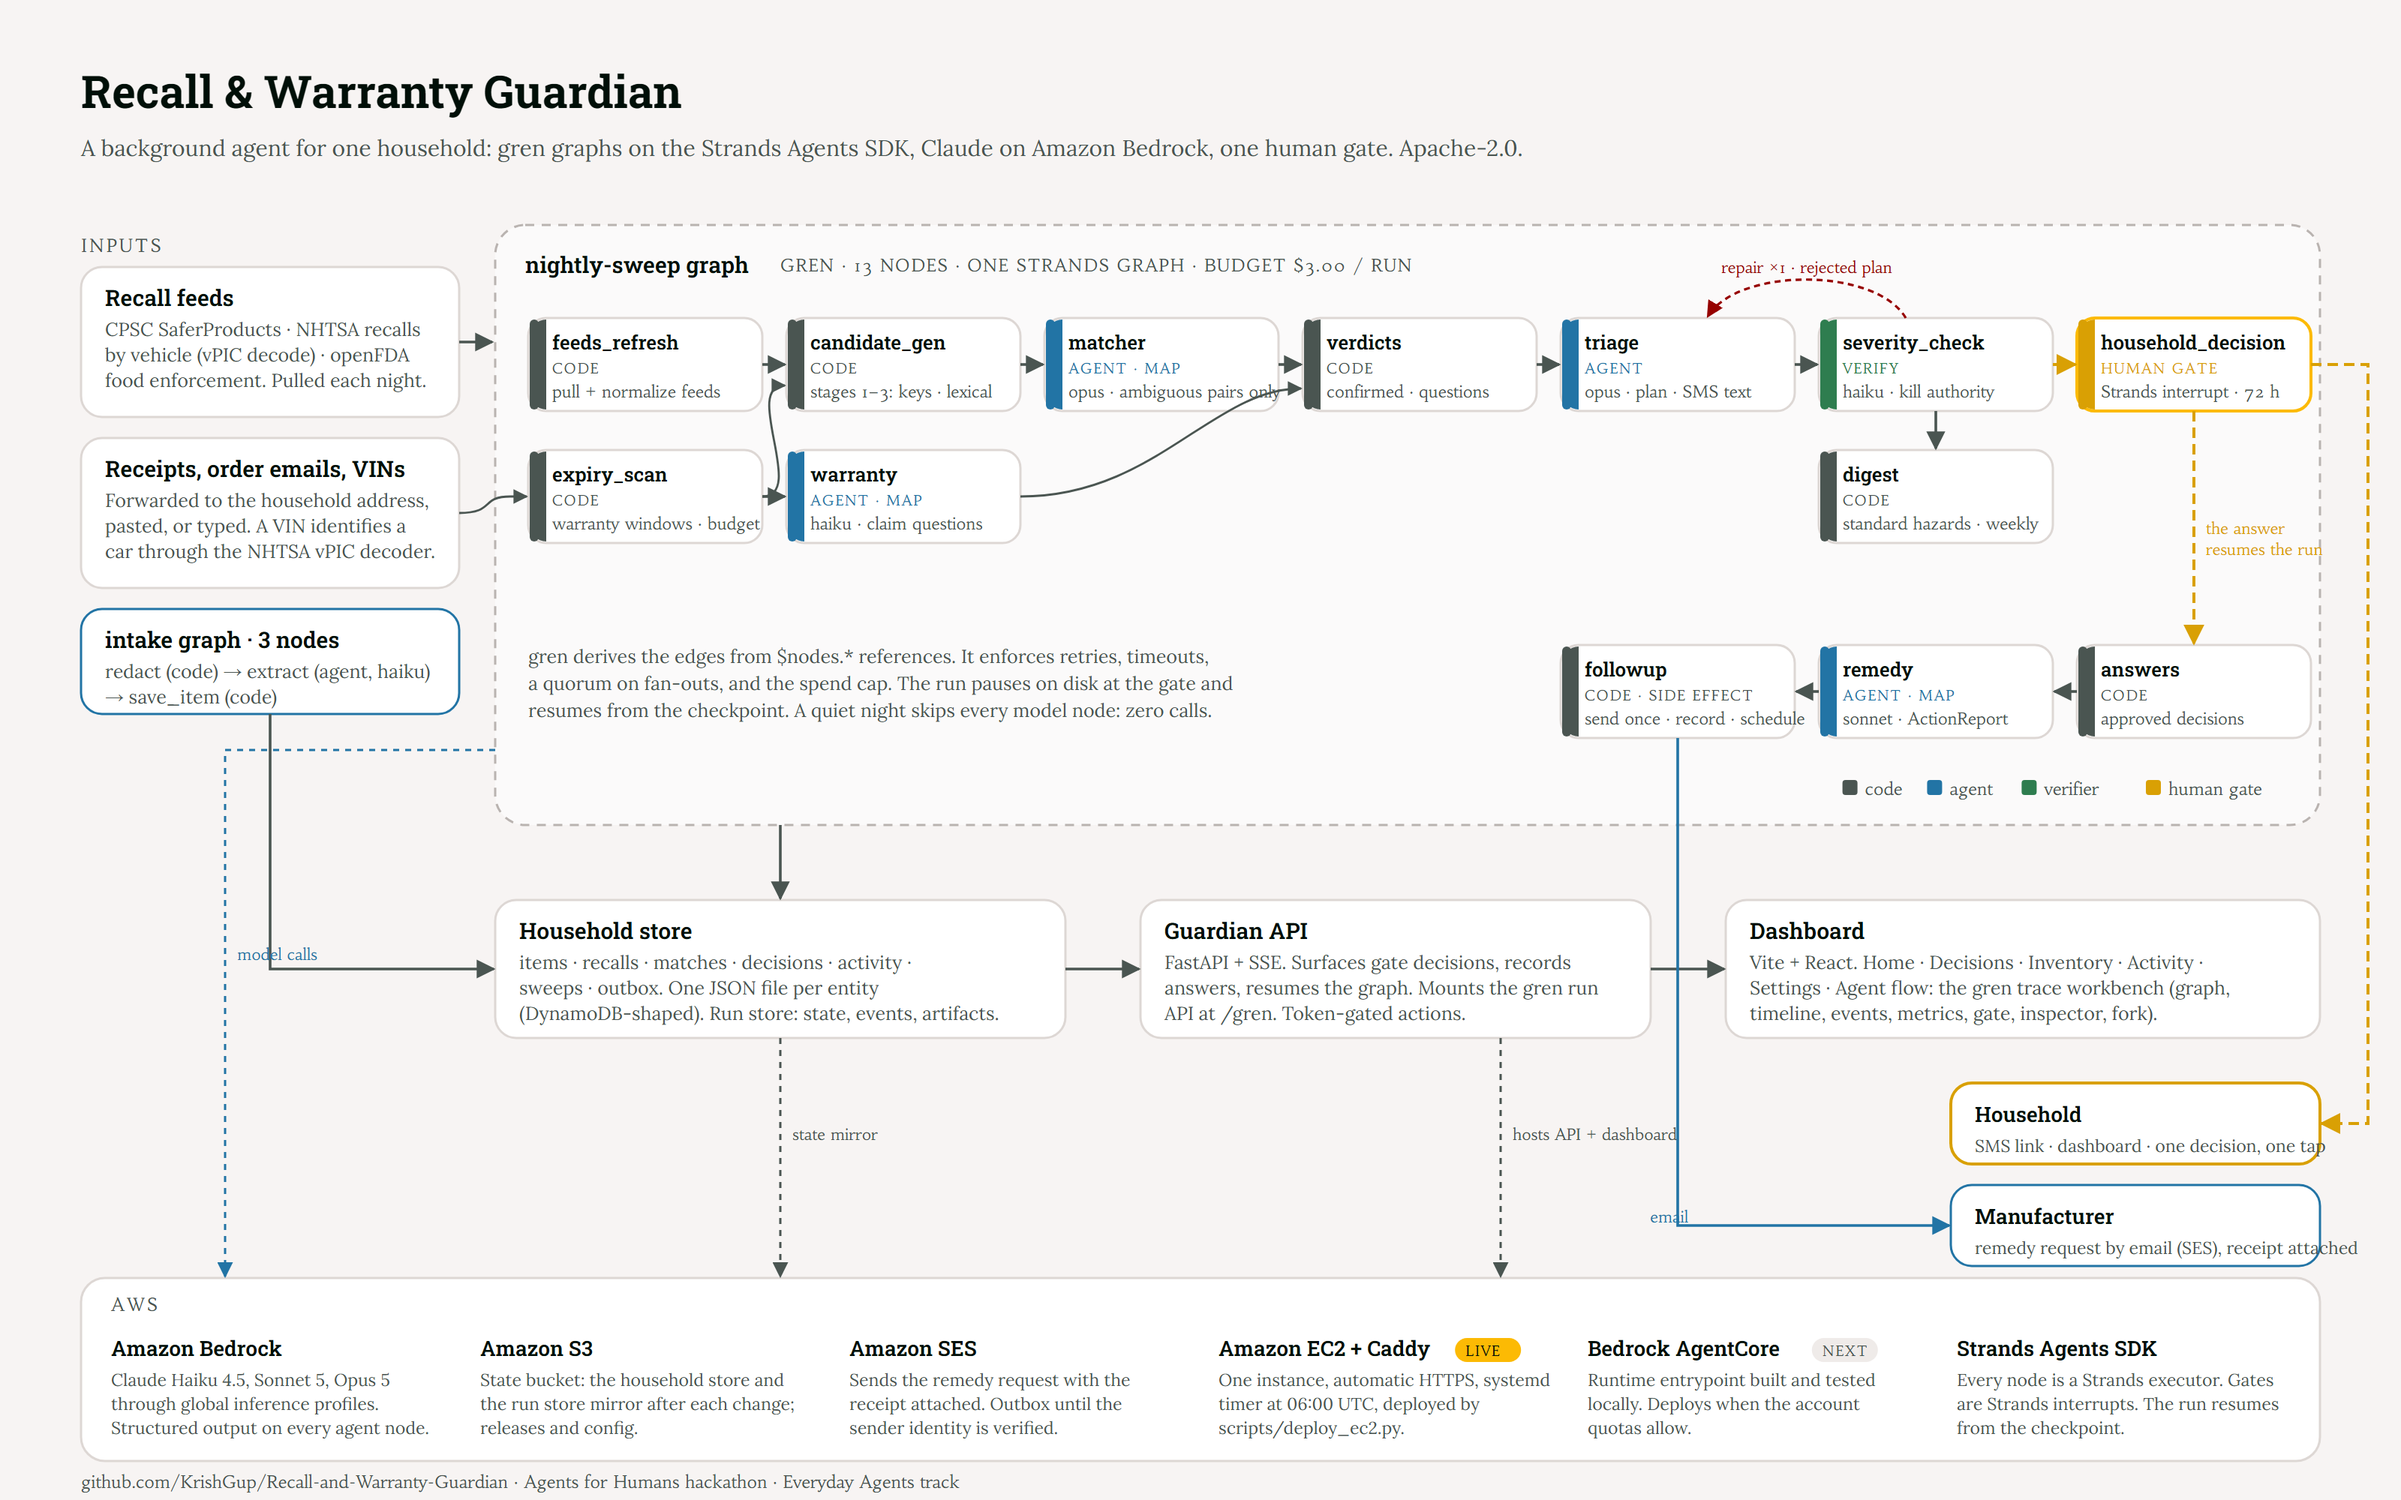
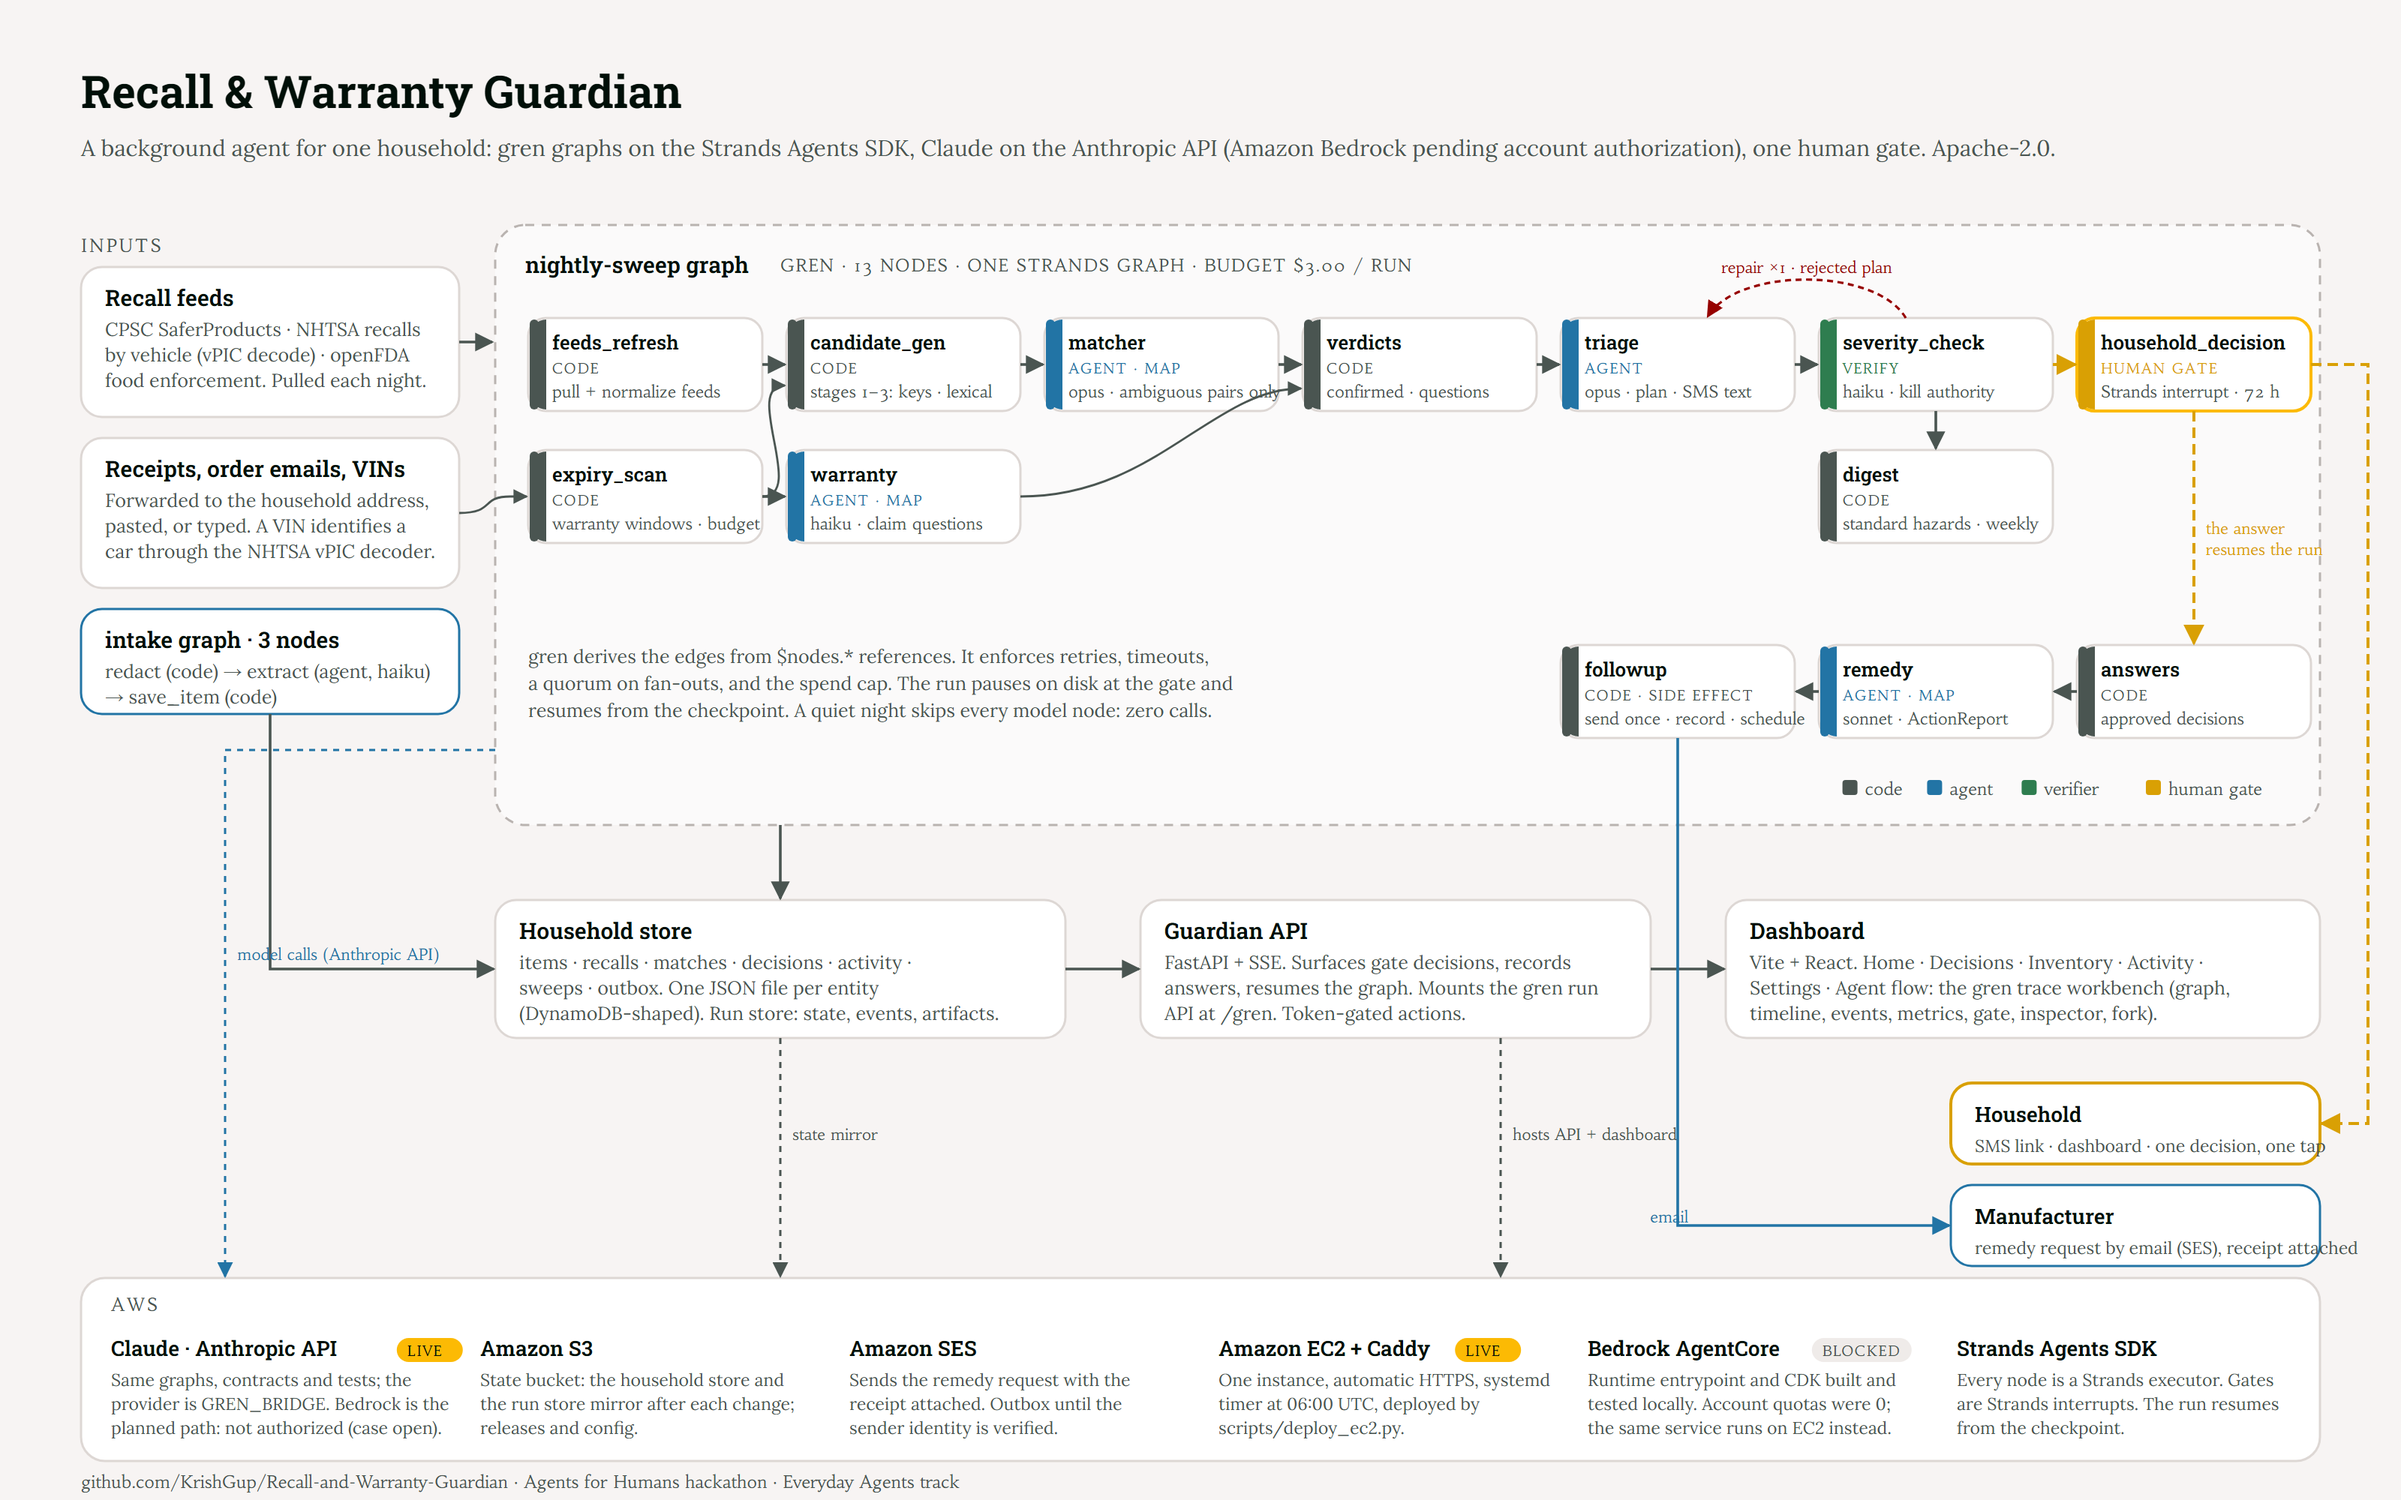
Submission state: the Anthropic API is the live provider; Bedrock and AgentCore documented as planned and blocked
- README: status row and "not done yet" name the provider that ships and
  point at docs/PROBLEMS_EXPERIENCED.md; ARCHITECTURE section 5 rows say
  what blocked Bedrock (support case 178934068800881) and AgentCore.
- docs/architecture.png regenerated in the fallback view.
- Deck: the Strands slide footnote names the Anthropic API; rebuilt with
  previews; the video and script re-assembled from the live clips.

Changed region(s): [[0.4375, 0.093, 0.8438, 0.124], [0.0312, 0.868, 0.1875, 0.961], [0.6562, 0.899, 0.7812, 0.961]]

diff --git a/scripts/deck_content.py b/scripts/deck_content.py
@@ -199,7 +199,7 @@ SLIDES: list[dict] = [
             ("Map fan-out", "matcher, warranty and remedy map over lists with structured_output_model. Retries, fallback model, timeouts and the spend cap are enforced by the engine."),
             ("Side effects, once", "followup declares side_effect and requires_gate. The frozen constraint gate_before_side_effect makes it unreachable without approval; it runs at most once per run."),
         ],
-        "footnote": f"Runs on one EC2 instance with automatic HTTPS at {LIVE}; Claude on Amazon Bedrock is the provider. The AgentCore Runtime deployment is built and tested locally (deploy/agentcore); SES delivery is a switch. See ARCHITECTURE.md §5.",
+        "footnote": f"Runs on one EC2 instance with automatic HTTPS at {LIVE}; Claude on the Anthropic API is the provider; Amazon Bedrock is the planned path (account authorization pending at submission). The AgentCore Runtime deployment is built and tested locally (deploy/agentcore). See ARCHITECTURE.md §5 and docs/PROBLEMS_EXPERIENCED.md.",
         "notes": "On Strands: every node is a MultiAgentBase executor in a GraphBuilder. Edges come from data references, with AND-join conditions. The gate is a Strands interrupt that survives a process exit. The verifier has kill authority with one bounded repair round, and side effects run once, behind the gate.",
     },
     {

diff --git a/README.md b/README.md
@@ -28,10 +28,11 @@ Guardian is a background agent for a household. It makes an inventory of the pro
 | Intake graph (redact, extract, save) | `guardian intake "..."` with the headless Claude Code provider |
 | Dashboard (Home, Decisions, Inventory, Activity, Settings, Agent flow) with the full trace workbench of the run graph | `web/`. `docs/AGENT_FLOW.md` describes the workbench. |
 | Providers: Amazon Bedrock, Anthropic API, headless Claude Code, mock | gren selects the provider from the environment. See the Quickstart. |
-| A live deployment on one EC2 instance with automatic HTTPS | https://guardian.44-214-230-44.sslip.io, made by `scripts/deploy_ec2.py` |
+| A live deployment on one EC2 instance with automatic HTTPS | https://guardian.44-214-230-44.sslip.io, made by `scripts/deploy_ec2.py`. It runs the graphs on the Anthropic API. |
 
 Not done yet:
 
+- Amazon Bedrock as the live provider. The account's authorization was pending at submission (support case 178934068800881). The `bedrock` provider is in the code and in the tests; the live site runs the same graphs on the Anthropic API. See `docs/PROBLEMS_EXPERIENCED.md`.
 - AgentCore Runtime, Memory, and Gateway. The account quotas block the deployment. See `docs/AWS_SETUP.md`.
 - SNS and SES delivery. Messages go to `var/household/outbox` unless `GUARDIAN_SNS=1` or `GUARDIAN_SES_FROM` is set with AWS credentials.
 - Cognito.
@@ -81,7 +82,7 @@ flowchart LR
   FU --> OUT[SES / SNS<br/>or the outbox]
 ```
 
-Code does the plumbing. Agents do the judgment. Feed pagination, VIN decoding, UPC equality, sold-window arithmetic, and the notification budget are code. An agent decides if "LED projecting finger light toys" is the recalled product, or if a plan is worth an interruption tonight. Each agent output is a validated structured object. `ARCHITECTURE.md` explains how the graph compiles onto Strands (`GraphBuilder`, AND-join edge conditions, gates as interrupts, memoized resume) and where the AWS pieces attach.
+Code does the plumbing. Agents do the judgment. Feed pagination, VIN decoding, UPC equality, sold-window arithmetic, and the notification budget are code. An agent decides if "LED projecting finger light toys" is the recalled product, or if a plan is worth an interruption tonight. Each agent output is a validated structured object. `ARCHITECTURE.md` explains how the graph compiles onto Strands (`GraphBuilder`, AND-join edge conditions, gates as interrupts, memoized resume) and where the AWS pieces attach. `docs/PROBLEMS_EXPERIENCED.md` records what did not work on the AWS side during the hackathon (Bedrock authorization, AgentCore quotas) and what shipped instead.
 
 ## Quickstart
 

diff --git a/docs/PROBLEMS_EXPERIENCED.md b/docs/PROBLEMS_EXPERIENCED.md
@@ -6,7 +6,7 @@ This note is for the submission write-up. It records what did not work on the AW
 
 **What we planned.** Every agent node in the nightly sweep runs Claude on Amazon Bedrock through the `bedrock` provider of gren. The provider wraps `strands.models.bedrock.BedrockModel` with cross-region inference profiles for Haiku 4.5, Sonnet 5, and Opus 5. The graphs, the tests, and the deployment were built for that path first.
 
-**What happened.** The account (779457758734) was activated on 13 September. Every Bedrock model call, in every region, answered `Operation not allowed`. The model availability API reported `authorizationStatus: NOT_AUTHORIZED` and `agreementAvailability: NOT_AVAILABLE` for each Anthropic model. The Anthropic use-case form in the console could not be submitted; the form itself said "create a support case". We opened support case 178934068800881 (Account and billing, 13 September 19:04 EDT). The account has no support plan, so the case cannot be read by API. The block was still in place at the deadline decision time (14 September, 15:00 EDT).
+**What happened.** The account (779457758734) was activated on 13 September. Every Bedrock model call, in every region, answered `Operation not allowed`. The model availability API reported `authorizationStatus: NOT_AUTHORIZED` and `agreementAvailability: NOT_AVAILABLE` for each Anthropic model. The Anthropic use-case form in the console could not be submitted; the form itself said "create a support case". We opened support case 178934068800881 (Account and billing, 13 September 19:04 EDT). The account has no support plan, so the case cannot be read by API. The block was still in place at the last check before submission (14 September).
 
 **What we did.** The provider is a configuration choice, not a code path. gren selects the provider from the environment (`GREN_BRIDGE`): `bedrock`, `anthropic` (the Anthropic API through `strands.models.anthropic.AnthropicModel`), `claude-code`, or `mock`. The same graphs, the same structured-output contracts, and the same tests run on each of them. For the live site and the demo recording we set `GUARDIAN_DEPLOY_BRIDGE=anthropic` and `ANTHROPIC_API_KEY` (and, for a gateway, `ANTHROPIC_BASE_URL`) in `.env`, then ran `python scripts/deploy_ec2.py update`. No Guardian or gren code changed for the switch.
 

diff --git a/ARCHITECTURE.md b/ARCHITECTURE.md
@@ -68,8 +68,8 @@ The **Agent flow** page of the dashboard is the gren trace workbench. It has the
 | Plan component | Attachment point | State |
 |---|---|---|
 | EC2 live server | `scripts/deploy_ec2.py` and `deploy/ec2/install.sh`: one instance, Caddy with automatic HTTPS, systemd timer for the nightly sweep, state mirrored to S3 | deployed |
-| Bedrock | The `bedrock` provider of gren (`BedrockModel`, cross-region inference profiles for `haiku`, `sonnet`, `opus`) | code path exists. The account waits for Bedrock authorization. |
-| AgentCore Runtime | `deploy/agentcore`: the `BedrockAgentCoreApp` entrypoint. `payload.kind` selects `sweep`, `intake`, `answer`, `status`, `seed`, or `sync` | built and tested locally. Account quotas block the deployment. |
+| Bedrock | The `bedrock` provider of gren (`BedrockModel`, cross-region inference profiles for `haiku`, `sonnet`, `opus`) | code path exists and is tested. The account was not authorized at submission (support case 178934068800881). The live site runs the same graphs on the `anthropic` provider; see `docs/PROBLEMS_EXPERIENCED.md`. |
+| AgentCore Runtime | `deploy/agentcore`: the `BedrockAgentCoreApp` entrypoint. `payload.kind` selects `sweep`, `intake`, `answer`, `status`, `seed`, or `sync` | built and tested locally. The account quotas (0) blocked the deployment at submission; the same service runs on EC2. |
 | AgentCore Memory | preferences and household facts. Today: `prefs.json` and the store | not started |
 | AgentCore Gateway | the recall feed tools as MCP. gren ships an MCP server. The feed functions are plain Python | not started |
 | EventBridge Scheduler | would call `POST /api/sweep` each night. Today: the systemd timer on the EC2 server | replaced by the timer |
